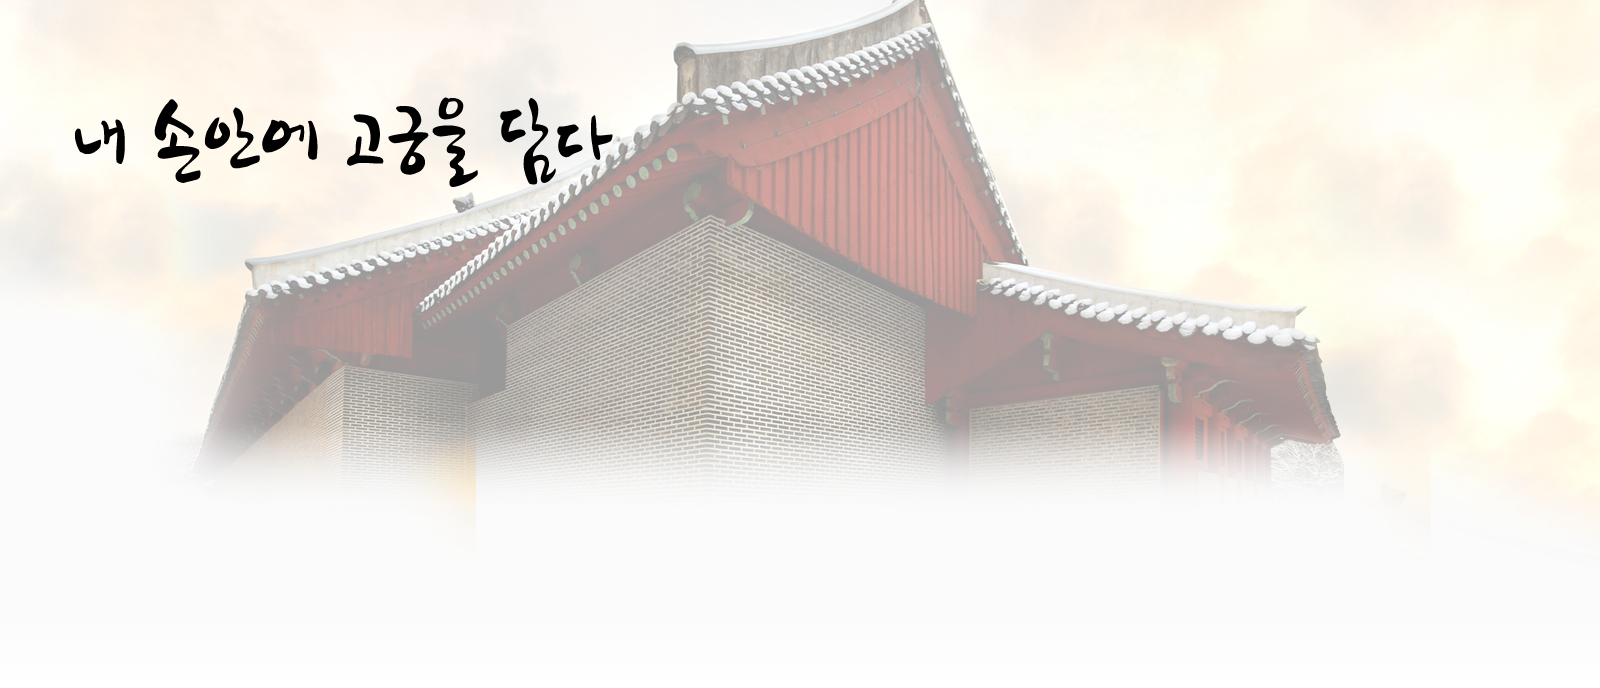
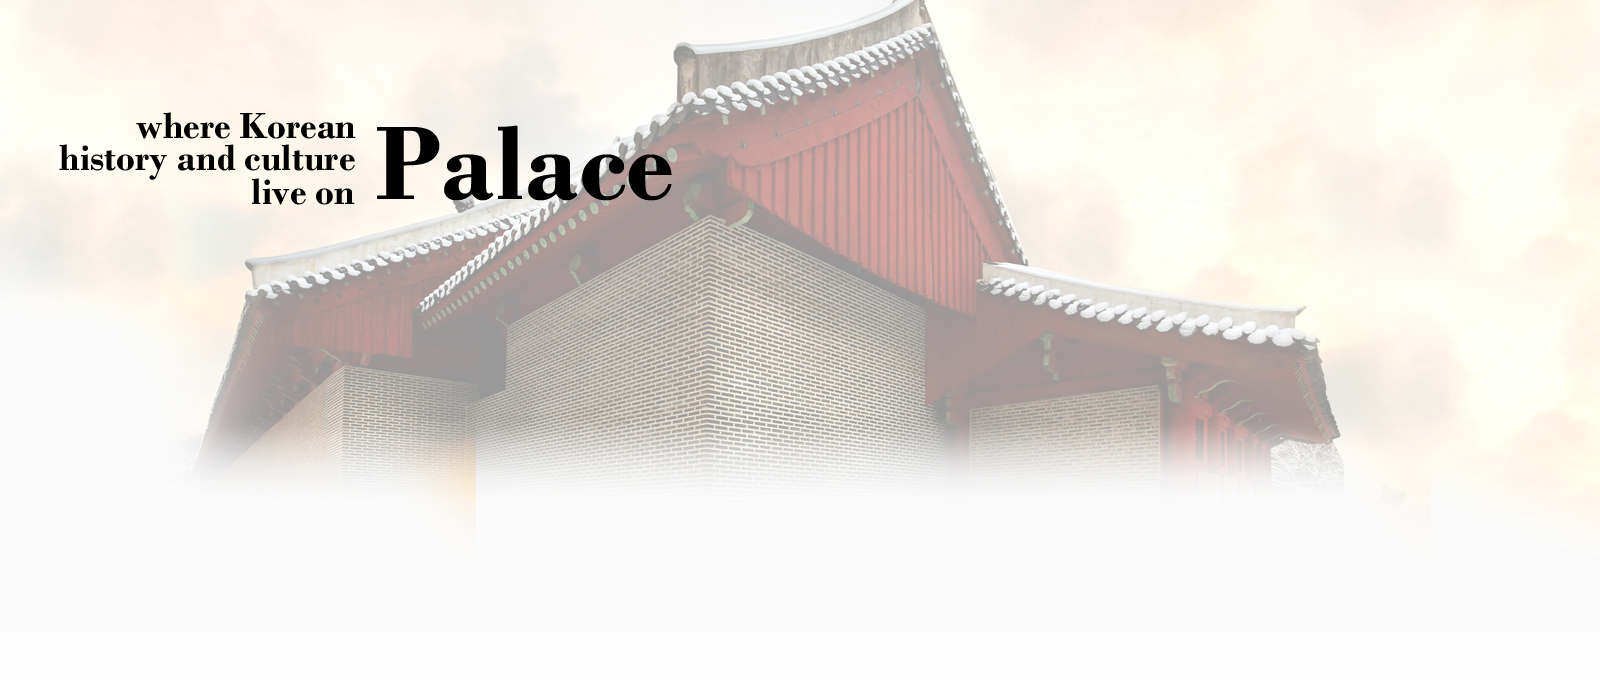
jsp 추가 변경에 따른 assets 변경 및 수정

Changed region(s): [[0.0312, 0.1526, 0.4375, 0.3052]]

diff --git a/server_R10M/WebContent/assets/css/gogung_service.css b/server_R10M/WebContent/assets/css/gogung_service.css
@@ -1,7 +1,8 @@
 
 	.service{
 		min-height: 500px; 
-		min-width: 1000px;
+		min-width: 800px;
+		width:100%;
 		position: relative; 
 		opacity: 1;
 		
@@ -9,31 +10,28 @@
 	
 	.service_title{
 		visibility: visible; 
-		left: 70%; 
 		top: 0px; 
-		width: 300px; 
+		width: 100%;
 		height: 50px;
-		min-height: 10px; 
 		position: relative;
 		float:none;
 	}
 	
 	.service_title img{
-		position: absolute;
+		position: relative;
 		width: 200px;
-		left: 58%;
+		float:right;
 	}
 	
 	.service_title h2{
-		position: absolute;
+		position: relative;
 		top:10px;
-		left:20%;
 	}
 	
 	.contact_form{
 		visibility: visible;
 		top: 50px;
-		width: 600px;
+		width: 60%;
 		min-width:400px;
 		min-height: 261px; 
 		position: relative;
@@ -41,27 +39,28 @@
 	}
 	
 	.contact_form input{
+		position: relative;
 		min-width: 380px;
-		width: 580px;
+		width: 90%;
 	}
 	
 	.contact_form textarea{
 		height: 200px;
-		width: 580px;
+		width: 90%;
 		min-width: 380px;
 	}
 	
 	.contact_form button{
 		position: relative;
-		margin-left: 90%;
+		margin-left: 80%;
 	}
 	
 	.contact_left{
 		visibility: visible; 
 		top: 50px; 
-		width: 400px; 
+		width: 40%; 
 		min-height: 115px; 
-		min-width: 300px;
+		min-width: 200px;
 		position: relative;
 		float: left;
 	}
@@ -77,8 +76,8 @@
 	
 	.contact_left img{
 		position: relative;
-		width: 400px;
-		height: 250px;
+		width: 100%;
+		height: 100%;
 		max-width: none;
 		float: left;
 	}
@@ -95,9 +94,8 @@
 	
 	.help-def{
 		height:300px;
-		width:700px ;
-		float: right;
-		margin-right: 3px;
+		width:85% ;
+		margin-left:15%;
 	}
 	
 	.page {
@@ -110,21 +108,38 @@
 		top:50px;
 	}
 	
+	.faqtable{
+		width:70%;
+		margin-left: 20%;
+	}
+	
+	.help-visual h3{
+		float:left;
+		margin-left: 10%;
+	}
+	
+	.help-visual p{
+		float: right;
+		margin: 10px;
+		padding-right: 10%;
+	}
+		
 	.num{
 		text-align:center;
 		width: 5%;
 	}
 	
 	.title{
-	text-align:left;
-	width: 30%;
+		text-align:left;
+		width: 30%;
 	}
 	
 	.date{
-	text-align:center;
-	width: 8%;
+		text-align:center;
+		width: 8%;
 	}
 	
 	.faqimg{
-	width:410px;
+		width:410px;
 	}
+	

diff --git a/server_R10M/WebContent/assets/css/gogung_content.css b/server_R10M/WebContent/assets/css/gogung_content.css
@@ -21,11 +21,11 @@
     	float:left;
     	border-right: 1px solid #ccc;
     	min-width:200px;
-    	width:330px;
+    	width:30%;
 	}
 	
 	.banner img{
-		width: 150px;
+		width: 45%;
 		height: 40px;
 		padding-left: 3px;
 		padding-top: 5px;
@@ -42,7 +42,7 @@
     .store {
     	position: relative;
     	min-width:200px;
-    	width:200px;
+    	width:25%;
     	height: 170px;
     	float:left;
     }

diff --git a/server_R10M/WebContent/assets/css/gogung_store.css b/server_R10M/WebContent/assets/css/gogung_store.css
@@ -5,10 +5,11 @@
 	height:240px;
 }
 
-
 .hero-unit p{
-	margin: 150px 0 0 80px;
-	font-weight: bold;
+   margin: 130px 0 0 80px;
+   font-weight: bold;
+   font-family: Bodoni MT;
+   font-size: 16pt;
 }
 
 .row{
@@ -35,9 +36,9 @@
 	padding-right: 10px;
 }
 
-/* .asd{
+ .asd{
 	width: 600px;
 	margin-left:inherit;
-} */
+} 
 
  

diff --git a/server_R10M/WebContent/assets/css/gogung_about.css b/server_R10M/WebContent/assets/css/gogung_about.css
@@ -1,5 +1,6 @@
 .about{
 	min-height: 500px; 
+	min-width: 1000px;;
 	position: relative; 
 	opacity: 1;
 }
@@ -30,7 +31,7 @@
 .comlogo{
 	position:relative;
 	float:left;
-	margin-right: 80px;
+	margin-right: 20px;
 }
 
 .comlogo img{

diff --git a/server_R10M/WebContent/assets/css/gogung_content_2.css b/server_R10M/WebContent/assets/css/gogung_content_2.css
@@ -3,7 +3,7 @@
         /* Animation Canvas */
         .animation_canvas  {
             position:relative;
-			width:400px;
+			width:40%;
 			height:203px;
 			overflow:hidden;
 			float:left; 

diff --git a/server_R10M/WebContent/assets/css/gogung_main.css b/server_R10M/WebContent/assets/css/gogung_main.css
@@ -6,7 +6,7 @@ body {
 /* 전체 내용을 감쌈*/
 .container {
   margin: 0 auto;
-  max-width: 1000px;
+  width: 940px;
 }
 .container > hr {
   margin: 20px 0;
